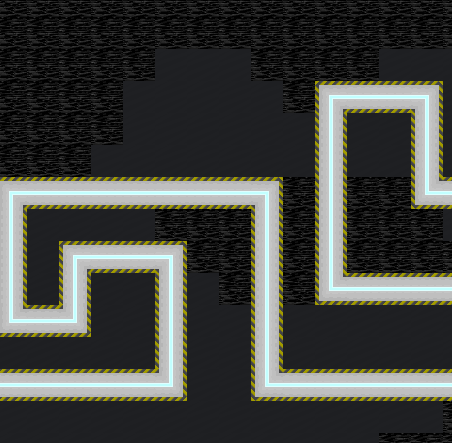
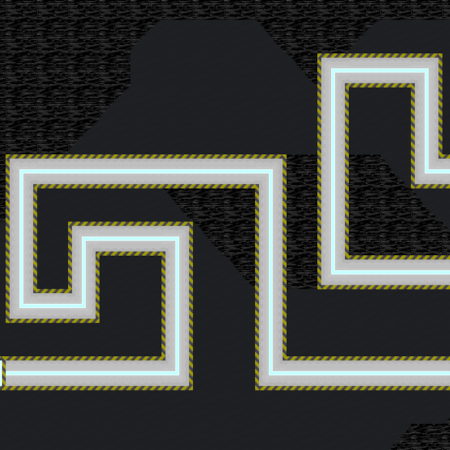
changement de la map ajout de décorations et changement de l'image dans le selecteur de niveaux

diff --git a/src/main/java/universite_paris8/iut/mcheema/codesource/modele/Terrain.java b/src/main/java/universite_paris8/iut/mcheema/codesource/modele/Terrain.java
@@ -1,6 +1,7 @@
 package universite_paris8.iut.mcheema.codesource.modele;
 
 import java.util.ArrayList;
+import java.util.Arrays;
 
 /**
  * La classe Terrain connait la liste des différents terrains (les tuiles, la longueur, la largueur, la taille d'une tuile)
@@ -18,9 +19,13 @@ public class Terrain {
 
     public void initialiseTerrain() {
         /*
-        h = herbe
+        h = sol
         t = terre
-        e = glitch
+        e = glitch1 --
+        c = glitch2 /-
+        d = glitch3 -\
+        f = glitch4 \-
+        g = glitch5 -/
         1 = ch_gauche_droite  →
         2 = ch_haut_bas ↓
         3 = ch_droite_bas ↱
@@ -37,52 +42,52 @@ public class Terrain {
             case 1:
                 this.terrainDeJeu = new char[][]{{'e','e','e','e','e','e','e','e','e','e','e','e','e','e','e','e','e','e','e','e'},
                                                  {'e','e','e','e','e','e','e','e','e','e','e','e','e','e','e','e','e','e','e','e'},
-                                                 {'e','e','e','e','e','e','h','h','h','e','e','e','e','h','h','h','h','e','e','e'},
-                                                 {'e','e','e','e','e','h','h','h','h','h','e','3','1','1','4','h','h','h','h','h'},
-                                                 {'e','e','e','e','e','h','h','h','h','h','h','2','h','h','2','h','h','3','1','1'},
-                                                 {'e','e','e','e','h','h','h','h','h','h','h','2','h','h','2','h','h','2','h','h'},
-                                                 {'e','3','1','1','1','1','1','1','1','4','e','2','e','e','6','1','1','5','e','e'},
-                                                 {'e','2','h','h','h','h','e','e','e','2','e','2','e','e','e','h','h','h','e','e'},
-                                                 {'h','2','h','3','1','1','4','e','e','2','e','2','e','e','e','e','h','e','e','e'},
-                                                 {'h','2','h','2','h','h','2','h','e','2','e','6','1','1','1','1','1','4','e','e'},
+                                                 {'e','e','e','e','e','c','h','h','h','d','e','e','c','h','h','h','h','d','e','e'},
+                                                 {'e','e','e','e','e','h','h','h','h','h','d','3','1','1','4','h','h','h','h','h'},
+                                                 {'e','e','e','e','c','h','h','h','h','h','h','2','h','h','2','h','h','3','1','1'},
+                                                 {'e','e','e','c','h','h','h','h','h','h','h','2','h','h','2','h','h','2','h','h'},
+                                                 {'e','3','1','1','1','1','1','1','1','4','e','2','e','f','6','1','1','5','g','e'},
+                                                 {'e','2','h','h','h','h','d','e','e','2','e','2','e','e','f','h','h','h','e','e'},
+                                                 {'h','2','h','3','1','1','4','d','e','2','e','2','e','e','e','f','h','h','e','e'},
+                                                 {'h','2','h','2','h','h','2','h','d','2','e','6','1','1','1','1','1','4','e','e'},
                                                  {'h','6','1','5','h','h','2','h','h','2','h','h','h','h','h','h','h','2','e','e'},
                                                  {'h','h','h','h','h','h','2','h','h','2','h','h','h','h','h','h','h','2','e','e'},
                                                  {'b','1','1','1','1','1','5','h','h','6','1','1','1','1','1','1','1','5','e','e'},
-                                                 {'h','h','h','h','h','h','h','h','h','h','h','h','h','h','h','e','e','e','e','e'},
-                                                 {'h','h','h','h','h','h','h','h','h','h','h','h','h','e','e','e','e','e','e','e'}
+                                                 {'h','h','h','h','h','h','h','h','h','h','h','h','h','h','h','g','e','e','e','e'},
+                                                 {'h','h','h','h','h','h','h','h','h','h','h','h','h','g','e','e','e','e','e','e'}
                 };
                 break;
             case 2:
-                this.terrainDeJeu = new char[][]{{'e','e','e','e','e','e','e','e','e','e','e','e','e','e','e','2','e','e','e','e'},
-                                                 {'h','h','h','h','h','h','h','e','e','e','e','e','h','h','h','2','h','h','h','h'},
+                this.terrainDeJeu = new char[][]{{'d','e','e','e','e','e','e','e','e','e','e','e','e','e','e','2','e','e','e','c'},
+                                                 {'h','h','h','h','h','h','h','h','g','e','e','c','h','h','h','2','h','h','h','h'},
                                                  {'h','h','h','h','h','3','1','1','1','1','1','1','1','4','h','2','h','h','h','h'},
-                                                 {'h','3','1','1','1','5','e','e','e','e','h','h','h','2','h','6','1','1','4','h'},
-                                                 {'h','2','h','h','h','e','e','3','1','1','1','1','1','5','h','h','h','h','2','h'},
+                                                 {'h','3','1','1','1','5','g','e','e','c','h','h','h','2','h','6','1','1','4','h'},
+                                                 {'h','2','h','h','h','g','e','3','1','1','1','1','1','5','h','h','h','h','2','h'},
                                                  {'h','2','h','3','1','4','e','2','e','h','h','h','h','h','h','h','h','h','2','h'},
                                                  {'h','2','h','2','h','2','e','2','e','h','h','3','1','1','1','1','1','1','5','h'},
-                                                 {'b','5','h','2','h','2','e','6','1','4','h','2','h','h','h','h','h','h','h','h'},
+                                                 {'b','5','h','2','h','2','d','6','1','4','h','2','h','h','h','h','h','h','h','h'},
                                                  {'h','h','h','2','h','6','4','e','e','6','1','5','h','3','1','1','1','1','4','h'},
                                                  {'h','h','h','2','h','h','2','e','e','h','h','h','h','2','h','h','h','h','2','h'},
                                                  {'h','h','h','2','h','h','6','1','1','1','1','1','1','5','h','3','1','1','5','h'},
-                                                 {'b','1','1','5','h','h','h','e','e','h','h','h','h','h','h','2','h','h','h','h'},
-                                                 {'h','h','h','h','h','h','h','e','e','e','e','h','h','3','1','5','h','h','h','h'},
-                                                 {'h','h','h','h','h','h','h','e','e','e','e','e','h','2','h','h','h','h','h','h'},
-                                                 {'h','h','h','h','e','e','e','e','e','e','e','h','h','2','h','h','h','h','h','h'}
+                                                 {'b','1','1','5','h','h','h','e','e','f','h','h','h','h','h','2','h','h','h','h'},
+                                                 {'h','h','h','h','h','h','h','e','e','e','f','h','h','3','1','5','h','h','h','h'},
+                                                 {'h','h','h','h','h','h','g','e','e','e','e','f','h','2','h','h','h','h','h','h'},
+                                                 {'h','h','h','h','h','g','e','e','e','e','e','e','h','2','h','h','h','h','h','h'}
                 };
                 break;
             case 3:
                 this.terrainDeJeu = new char[][]{{'e','e','e','e','e','e','e','e','e','e','e','e','e','e','e','e','e','e','e','e'},
                                                  {'e','e','e','e','e','e','e','e','e','e','e','e','e','e','e','e','e','e','e','e'},
                                                  {'e','e','e','e','e','e','e','e','e','e','e','e','e','e','e','e','e','e','e','e'},
-                                                 {'e','e','e','h','h','h','h','h','h','h','h','h','e','e','e','e','e','e','e','e'},
-                                                 {'e','e','h','h','3','1','1','1','1','1','4','h','h','e','e','e','e','e','e','e'},
-                                                 {'e','e','h','3','5','h','h','h','h','h','6','4','h','h','h','e','e','e','e','e'},
-                                                 {'e','e','h','2','h','h','h','h','h','h','h','6','4','h','h','h','h','h','e','e'},
+                                                 {'e','e','c','h','h','h','h','h','h','h','h','h','d','e','e','e','e','e','e','e'},
+                                                 {'e','e','h','h','3','1','1','1','1','1','4','h','h','d','e','e','e','e','e','e'},
+                                                 {'e','e','h','3','5','h','h','h','h','h','6','4','h','h','h','d','e','e','e','e'},
+                                                 {'e','e','h','2','h','h','h','h','h','h','h','6','4','h','h','h','h','h','d','e'},
                                                  {'e','e','h','7','1','1','1','1','1','b','h','h','7','1','1','1','1','1','1','1'},
-                                                 {'e','e','h','2','h','h','h','h','h','h','h','3','5','h','h','h','h','h','e','e'},
-                                                 {'e','e','h','6','4','h','h','h','h','h','3','5','h','h','h','e','e','e','e','e'},
-                                                 {'e','e','h','h','6','1','1','1','1','1','5','h','h','e','e','e','e','e','e','e'},
-                                                 {'e','e','e','h','h','h','h','h','h','h','h','h','e','e','e','e','e','e','e','e'},
+                                                 {'e','e','h','2','h','h','h','h','h','h','h','3','5','h','h','h','h','h','g','e'},
+                                                 {'e','e','h','6','4','h','h','h','h','h','3','5','h','h','h','g','e','e','e','e'},
+                                                 {'e','e','h','h','6','1','1','1','1','1','5','h','h','g','e','e','e','e','e','e'},
+                                                 {'e','e','f','h','h','h','h','h','h','h','h','h','g','e','e','e','e','e','e','e'},
                                                  {'e','e','e','e','e','e','e','e','e','e','e','e','e','e','e','e','e','e','e','e'},
                                                  {'e','e','e','e','e','e','e','e','e','e','e','e','e','e','e','e','e','e','e','e'},
                                                  {'e','e','e','e','e','e','e','e','e','e','e','e','e','e','e','e','e','e','e','e'}};
@@ -146,7 +151,7 @@ public class Terrain {
     public boolean tuileTourPosable(int x, int y) {
         int ligne = y / TAILLE_TUILLE;
         int colonne = x / TAILLE_TUILLE;
-        return (!tuileEstAccessibleCoords(x,y) && avoirCodeTuile(ligne,colonne) != 'e');
+        return (!tuileEstAccessibleCoords(x,y) && !new ArrayList<>(Arrays.asList('c', 'd', 'e', 'f', 'g')).contains(avoirCodeTuile(ligne, colonne)));
     }
 
 

diff --git a/src/main/java/universite_paris8/iut/mcheema/codesource/vue/TerrainVue.java b/src/main/java/universite_paris8/iut/mcheema/codesource/vue/TerrainVue.java
@@ -21,7 +21,11 @@ public class TerrainVue {
 
     public void afficheTerrainJeu() {
         Image imgSol = new Image(getClass().getResource("/universite_paris8/iut/mcheema/codesource/texture/sol.png").toExternalForm());
-        Image imgGlitch1 = new Image(getClass().getResource("/universite_paris8/iut/mcheema/codesource/texture/glitch1.png").toExternalForm());
+        Image imgGlitch1 = new Image(getClass().getResource("/universite_paris8/iut/mcheema/codesource/texture/glitch/glitch1.png").toExternalForm());
+        Image imgGlitch2 = new Image(getClass().getResource("/universite_paris8/iut/mcheema/codesource/texture/glitch/glitch2.png").toExternalForm());
+        Image imgGlitch3 = new Image(getClass().getResource("/universite_paris8/iut/mcheema/codesource/texture/glitch/glitch3.png").toExternalForm());
+        Image imgGlitch4 = new Image(getClass().getResource("/universite_paris8/iut/mcheema/codesource/texture/glitch/glitch4.png").toExternalForm());
+        Image imgGlitch5 = new Image(getClass().getResource("/universite_paris8/iut/mcheema/codesource/texture/glitch/glitch5.png").toExternalForm());
         Image ch_gauche_droite = new Image(getClass().getResource("/universite_paris8/iut/mcheema/codesource/texture/chemins/chemin1.png").toExternalForm());
         Image ch_haut_bas = new Image(getClass().getResource("/universite_paris8/iut/mcheema/codesource/texture/chemins/chemin2.png").toExternalForm());
         Image ch_droite_bas = new Image(getClass().getResource("/universite_paris8/iut/mcheema/codesource/texture/chemins/chemin3.png").toExternalForm());
@@ -74,6 +78,18 @@ public class TerrainVue {
                         break;
                     case 'e':
                         this.tilePane.getChildren().add(new ImageView(imgGlitch1));
+                        break;
+                    case 'c':
+                        this.tilePane.getChildren().add(new ImageView(imgGlitch2));
+                        break;
+                    case 'd':
+                        this.tilePane.getChildren().add(new ImageView(imgGlitch3));
+                        break;
+                    case 'f':
+                        this.tilePane.getChildren().add(new ImageView(imgGlitch4));
+                        break;
+                    case 'g':
+                        this.tilePane.getChildren().add(new ImageView(imgGlitch5));
                         break;
                 }
             }
